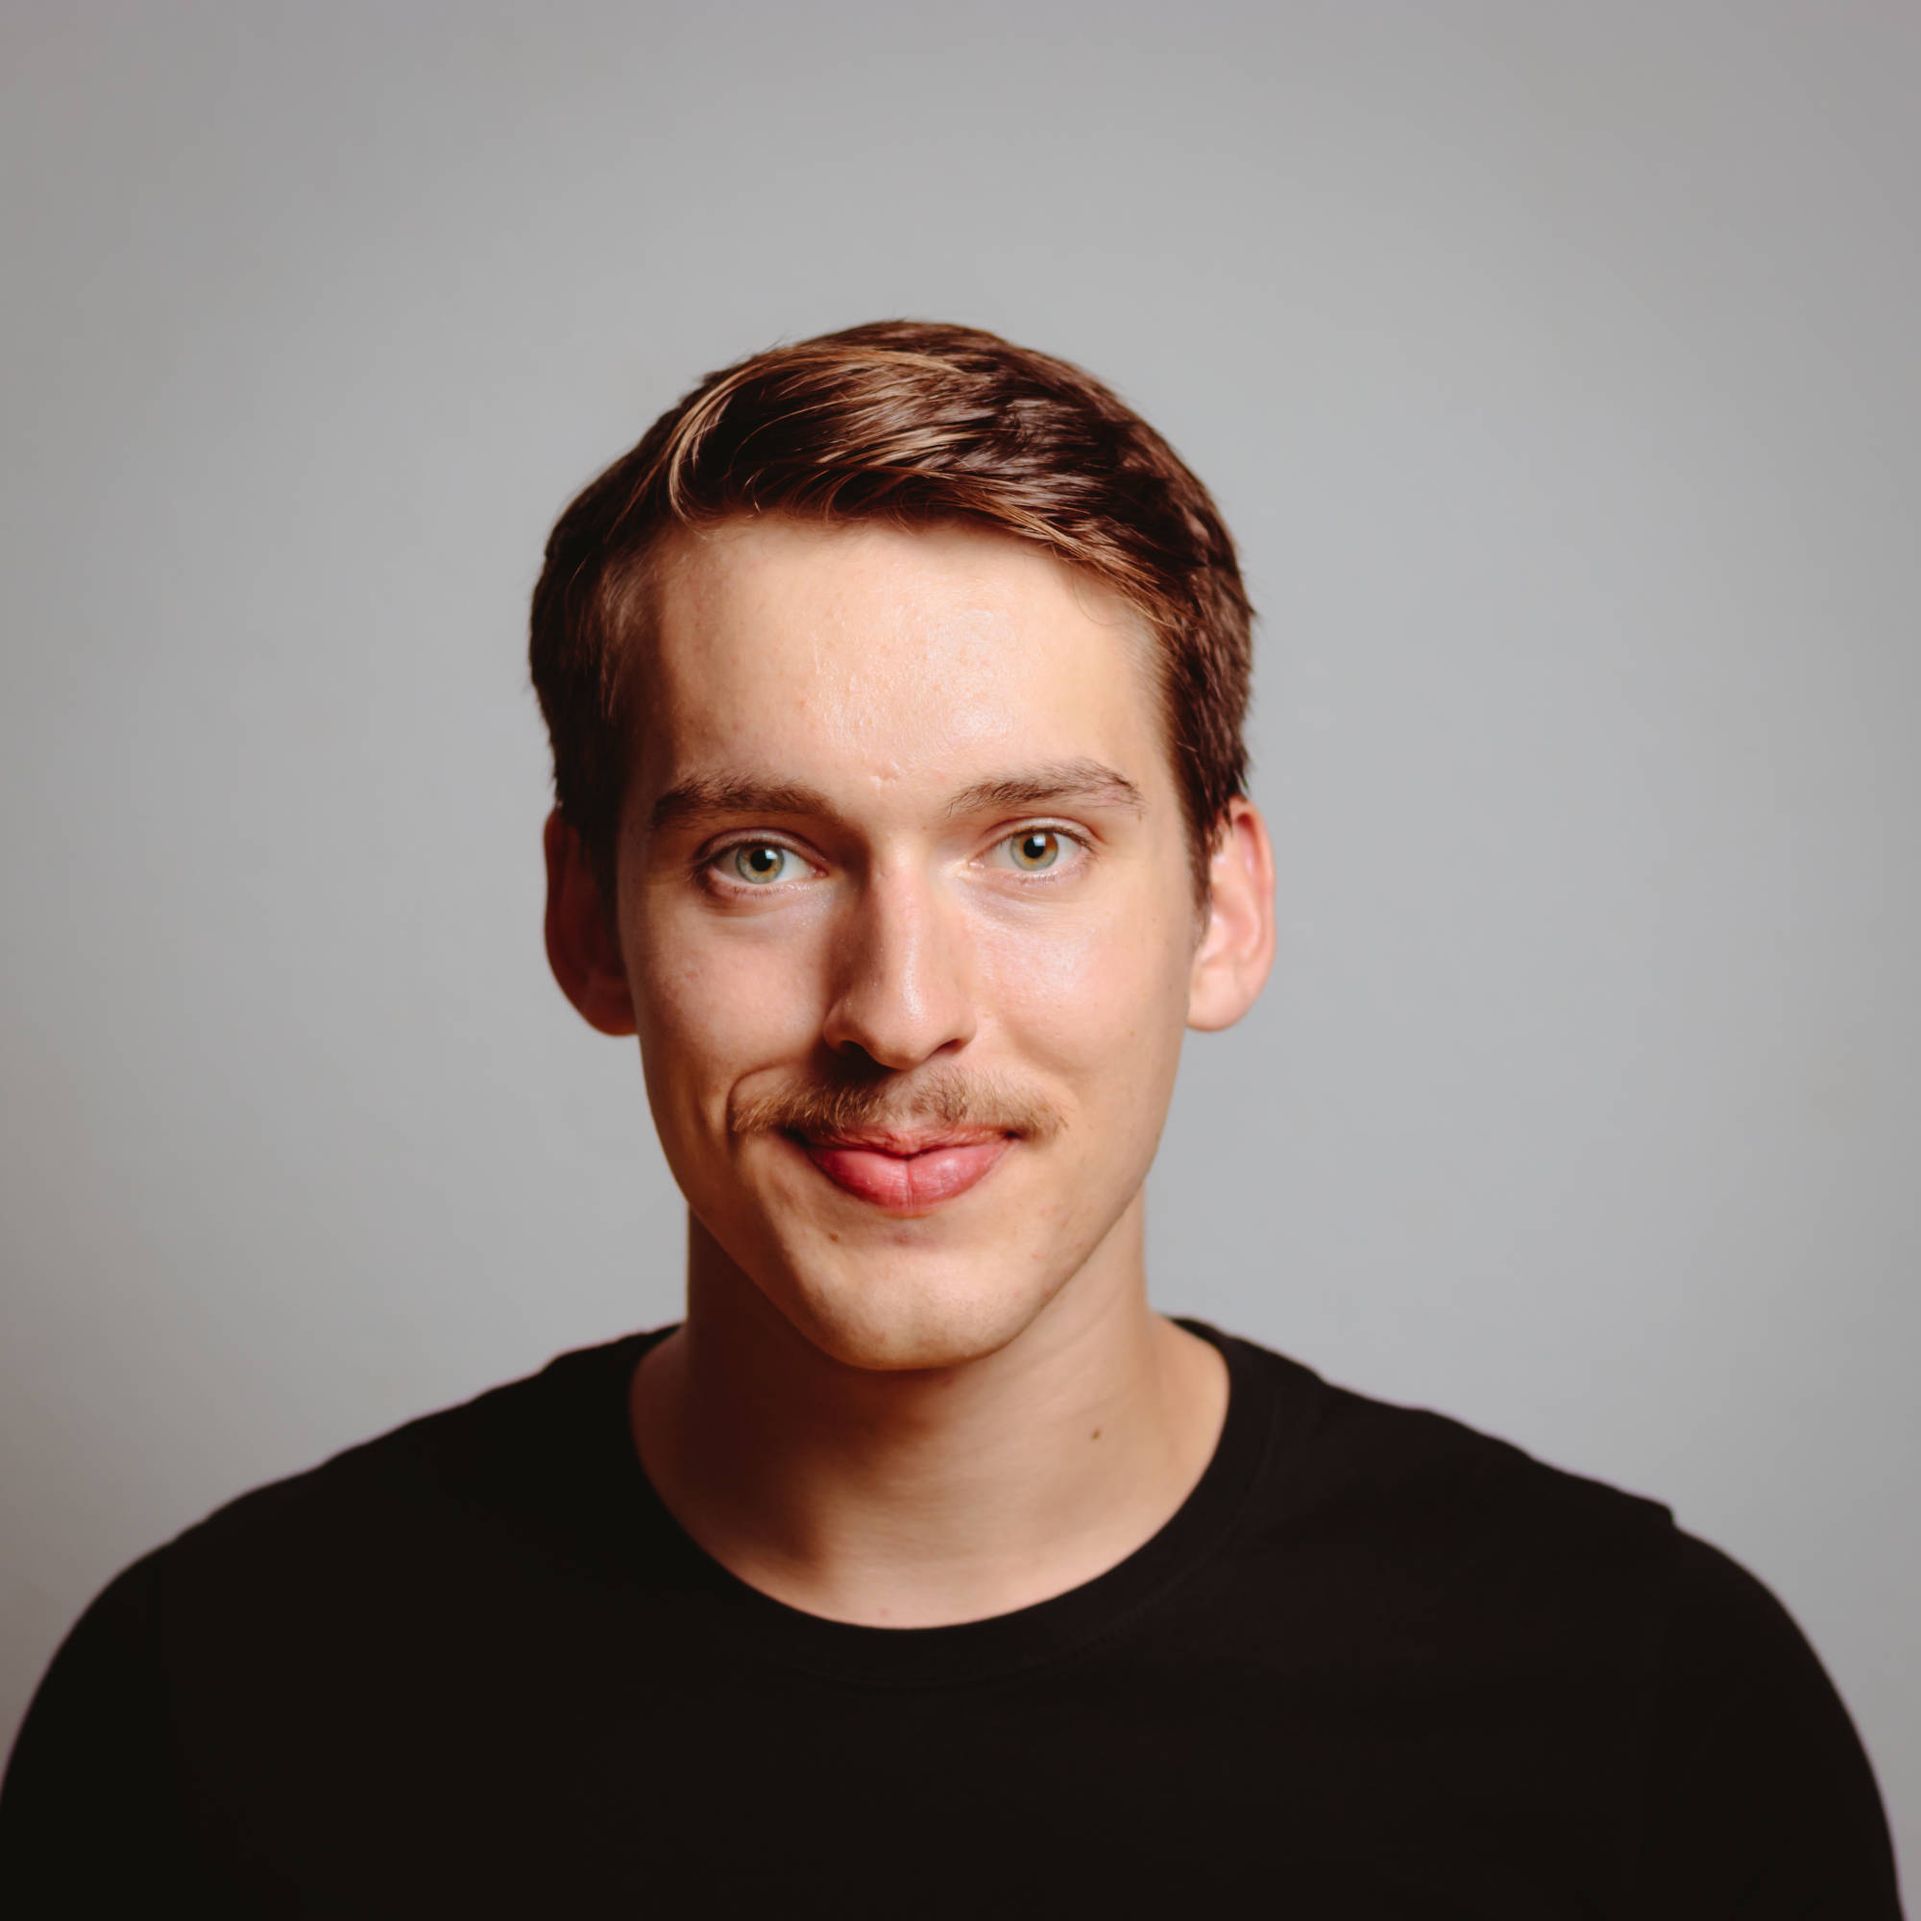
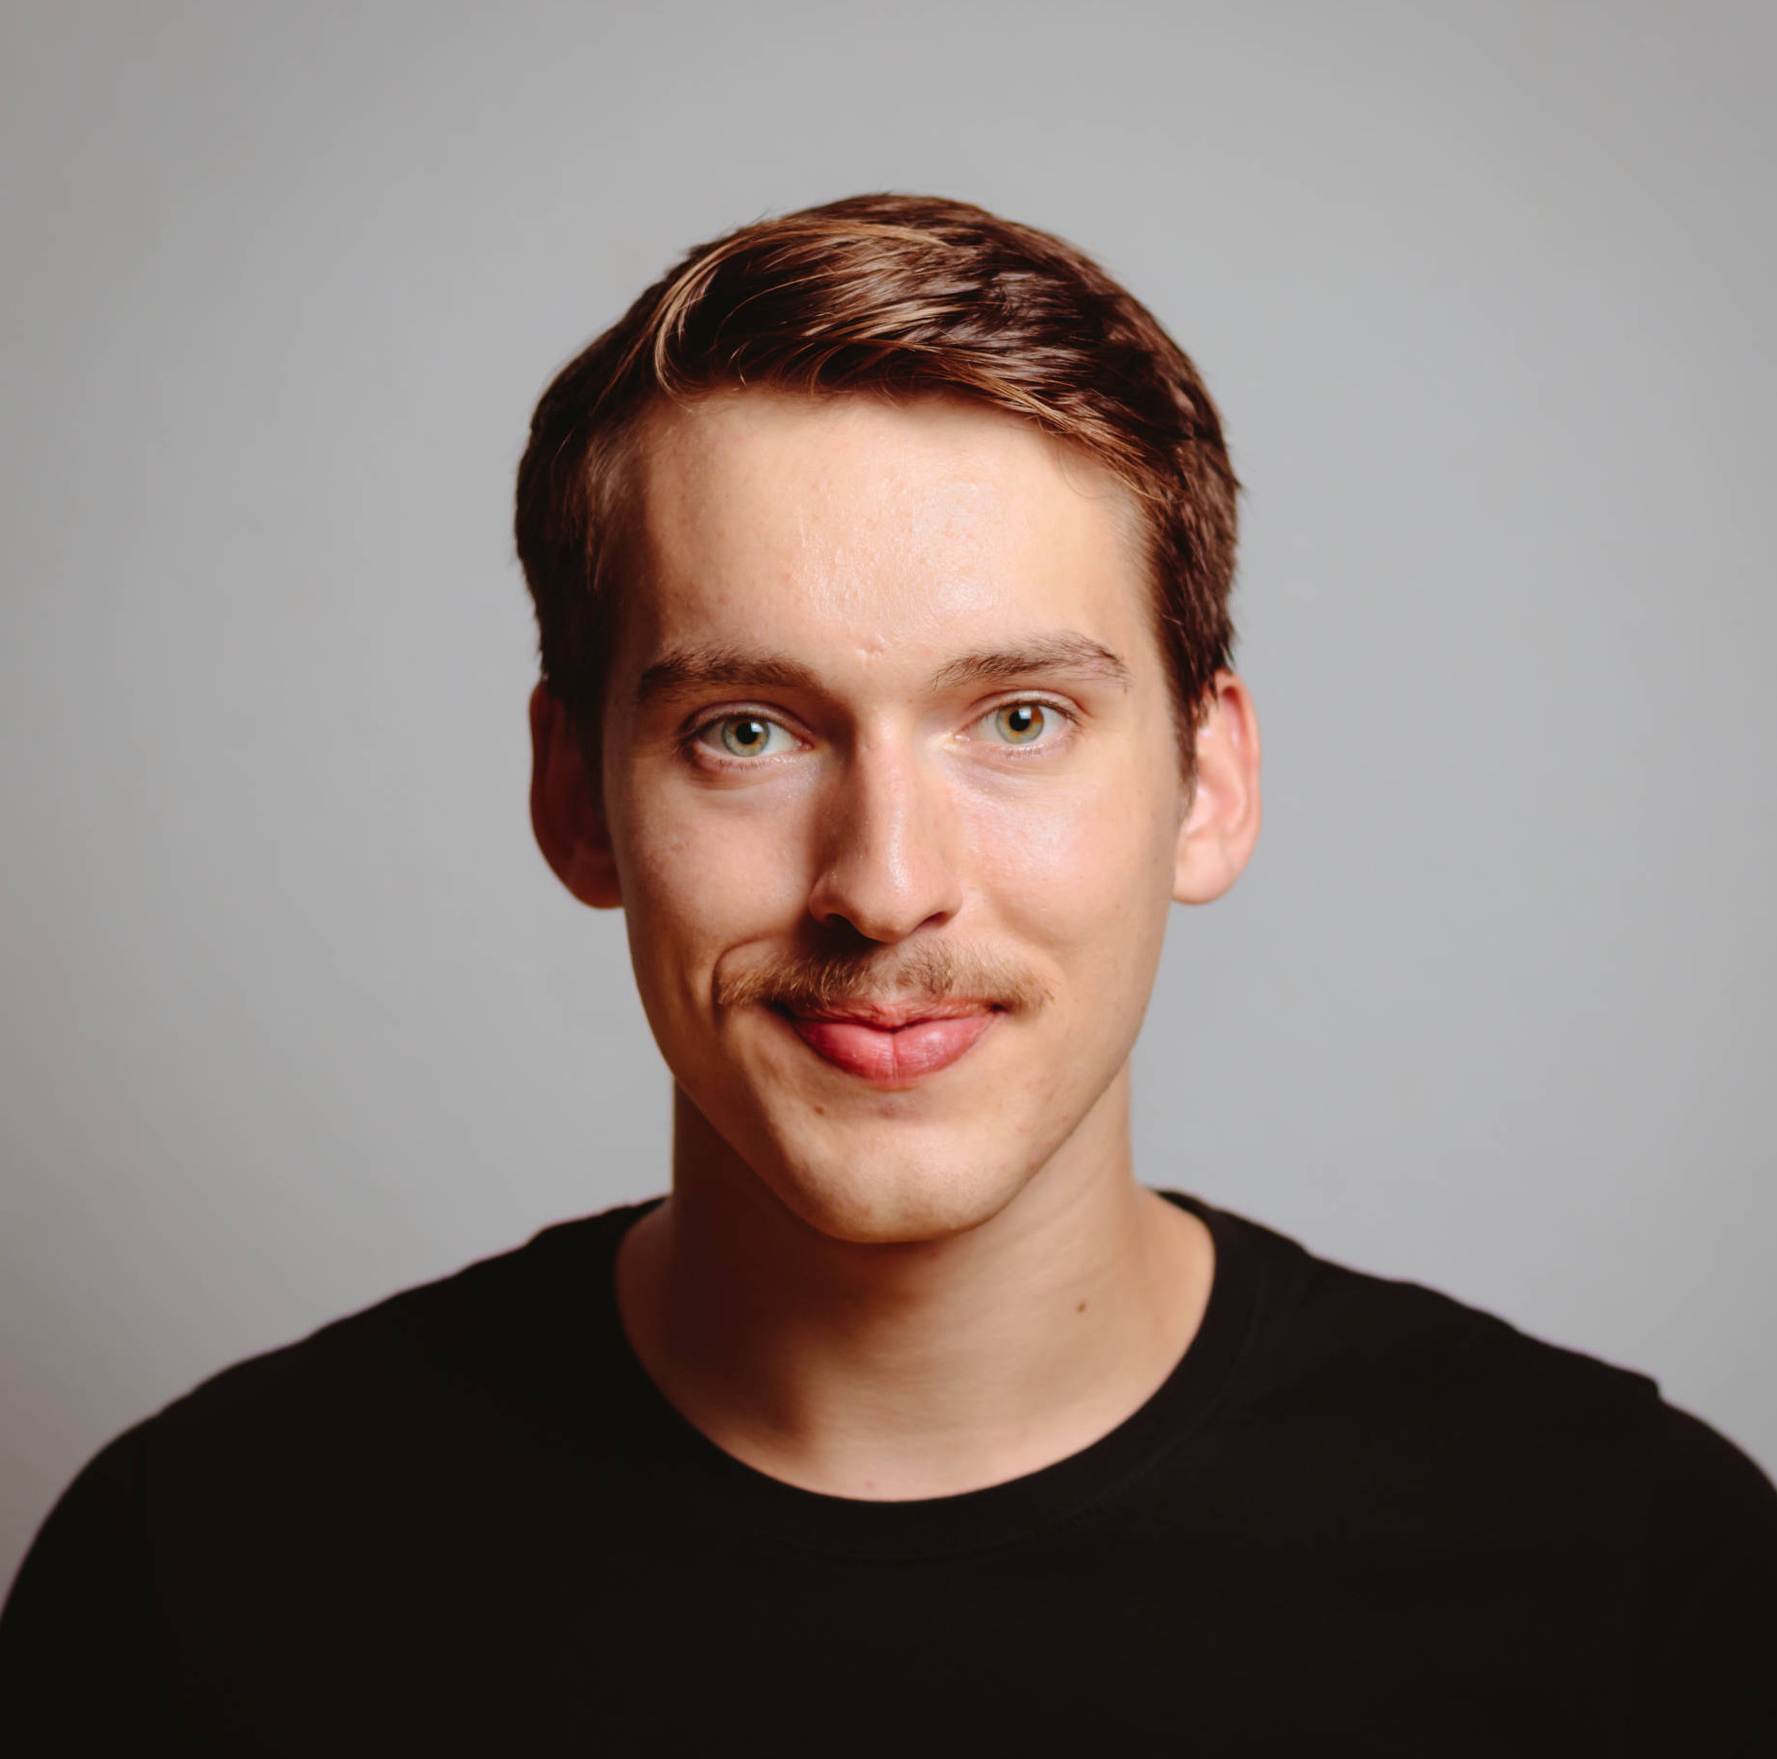
v2 * replace images with buttons * add profile image

Changed region(s): [[0.2773, 0.0933, 1.0, 1.0], [0.0, 0.8712, 0.0308, 0.9334]]

diff --git a/index.html b/index.html
@@ -6,53 +6,115 @@
   <meta name="viewport" content="width=device-width, user-scalable=no" />
 
   <script defer data-domain="felixzieger.de" src="https://plausible.sonnenhof-zieger.de/js/script.outbound-links.js"></script>
-  
+
   <title>Felix Zieger</title>
   <link rel="icon" type="image/x-icon" href="assets/favicon.png">
+  <link rel="stylesheet" href="https://cdnjs.cloudflare.com/ajax/libs/font-awesome/5.15.3/css/all.min.css">
   <style>
     body {
-      background-color: white;
+      font-family: 'Roboto', sans-serif;
+      display: flex;
+      justify-content: center;
+      align-items: center;
+      height: 100vh;
+      transition: background-color 0.2s, color 0.2s;
+      margin: 0;
+      padding: 0;
+      overflow: hidden;
     }
 
     @media (prefers-color-scheme: dark) {
       body {
         background-color: black;
+        color: white;
       }
 
-      img {
-        -webkit-filter: invert(100%);
-        filter: invert(100%);
+      li a {
+        background-color: white;
+        color: black;
+        border: 1px solid white;
+      }
+
+      li a:hover {
+        background-color: #333;
+        color: white;
       }
     }
 
-    @media screen and (max-width: 60em) {
-      img {
-        display: block;
-      }
+    .container {
+      text-align: center;
     }
 
-    section {
-      position: absolute;
-      top: 50%;
-      left: 50%;
-      margin-right: -50%;
-      transform: translate(-50%, -50%);
+    h1 {
+      font-size: 1.5em;
+      margin-bottom: 1em;
     }
 
-    img {
-      height: 11em;
-      width: 11em;
-      padding: 1em;
+    ul {
+      list-style: none;
+      padding: 0;
+      text-align: center;
+    }
+
+    li {
+      margin: 1em 0;
+    }
+
+    li a {
+      text-decoration: none;
+      display: inline-block;
+      padding: 10px;
+      min-width: 150px;
+      background-color: black;
+      color: white;
+      border-radius: 5px;
+      font-size: 1.2em;
+      transition: background-color 0.2s;
+    }
+
+    li a:hover {
+      background-color: #333;
+    }
+
+    .fa-icon {
+      margin-right: 0.5em;
+    }
+
+    .profile-image {
+      width: 150px;
+      height: 150px;
+      border-radius: 50%;
+      overflow: hidden;
+      margin: 0 auto;
+    }
+
+    .profile-image img {
+      width: 100%;
+      height: 100%;
+      object-fit: cover;
+    }
+
+    .profile-text {
+      font-size: 1.2em;
+      margin-top: 1em;
     }
   </style>
 </head>
 
 <body>
-  <section>
-    <a href="https://github.com/felixzieger/"><img src="assets/github.svg" alt="github"></a><a
-      href="https://de.linkedin.com/in/felixzieger"><img src="assets/linkedin.svg" alt="linkedin"></a><a
-      href="https://blog.felixzieger.de/"><img src="assets/blog.svg" alt="blog"></a>
-  </section>
+  <div class="container">
+    <div class="profile-image">
+      <img src="assets/me.jpg" alt="Profile Image">
+    </div>
+    <h1>Felix Zieger</h1>
+    <p class="profile-text">Welcome to my corner of the internet!</p>
+    <ul>
+      <li><a href="https://github.com/felixzieger/"><i class="fab fa-github fa-icon"></i>GitHub</a></li>
+      <li><a href="https://de.linkedin.com/in/felixzieger"><i class="fab fa-linkedin fa-icon"></i>LinkedIn</a></li>
+      <li><a href="https://blog.felixzieger.de/"><i class="fas fa-blog fa-icon"></i>Blog</a></li>
+      <li><a href="https://notes.felixzieger.de/"><i class="fas fa-sticky-note fa-icon"></i>Notes</a></li>
+    </ul>
+  </div>
 </body>
 
 </html>
